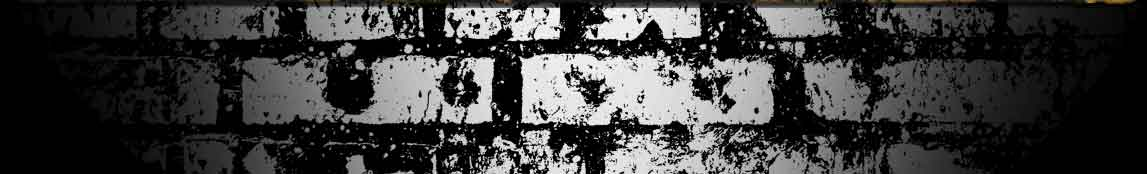
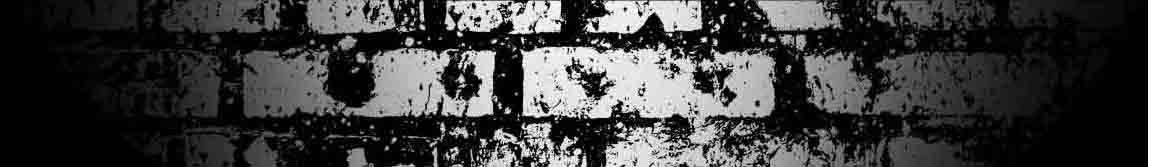
réglages css et position

Changed region(s): [[0.0915, 0.0, 0.9154, 1.0], [0.9459, 0.0, 1.0, 1.0], [0.8849, 0.2695, 0.9154, 0.2994]]

diff --git a/src/drvoy/skin/static/style.css b/src/drvoy/skin/static/style.css
@@ -34,6 +34,8 @@ margin:auto;
 
 header{
 background-image: url(images/header.jpg);
+background-repeat:no-repeat;
+background-position:7px center;
 height:185px;
 }
 
@@ -60,7 +62,7 @@ width:440px;
 background-image: url(images/menu-sup.jpg);
 background-position: 7px top;
 background-repeat: no-repeat;
-height:79px;
+height:76px;
 }
 
 /* début list-menu-sup */
@@ -134,6 +136,7 @@ background-image: url(images/colophon.jpg);
 background-repeat:no-repeat;
 height:171px;
 text-align:center;
+border-radius:18px 18px 0px 0px;
 }
 
 #colophon .logo-partenaire{
@@ -142,14 +145,13 @@ margin-top:30px;
 margin-left:170px;
 border-radius:18px;
 padding:10px;
-background: rgb(181,189,200); /* Old browsers */
-background: -moz-linear-gradient(top,  rgba(181,189,200,1) 0%, rgba(130,140,149,1) 36%, rgba(40,52,59,1) 100%); /* FF3.6+ */
-background: -webkit-gradient(linear, left top, left bottom, color-stop(0%,rgba(181,189,200,1)), color-stop(36%,rgba(130,140,149,1)), color-stop(100%,rgba(40,52,59,1))); /* Chrome,Safari4+ */
-background: -webkit-linear-gradient(top,  rgba(181,189,200,1) 0%,rgba(130,140,149,1) 36%,rgba(40,52,59,1) 100%); /* Chrome10+,Safari5.1+ */
-background: -o-linear-gradient(top,  rgba(181,189,200,1) 0%,rgba(130,140,149,1) 36%,rgba(40,52,59,1) 100%); /* Opera 11.10+ */
-background: -ms-linear-gradient(top,  rgba(181,189,200,1) 0%,rgba(130,140,149,1) 36%,rgba(40,52,59,1) 100%); /* IE10+ */
-background: linear-gradient(to bottom,  rgba(181,189,200,1) 0%,rgba(130,140,149,1) 36%,rgba(40,52,59,1) 100%); /* W3C */
-filter: progid:DXImageTransform.Microsoft.gradient( startColorstr='#b5bdc8', endColorstr='#28343b',GradientType=0 ); /* IE6-9 */
+background: -moz-linear-gradient(top,  rgba(181,189,200,0.8) 0%, rgba(130,140,149,0.8) 36%, rgba(40,52,59,0.8) 100%); /* FF3.6+ */
+background: -webkit-gradient(linear, left top, left bottom, color-stop(0%,rgba(181,189,200,0.8)), color-stop(36%,rgba(130,140,149,0.8)), color-stop(100%,rgba(40,52,59,0.8))); /* Chrome,Safari4+ */
+background: -webkit-linear-gradient(top,  rgba(181,189,200,0.8) 0%,rgba(130,140,149,0.8) 36%,rgba(40,52,59,0.8) 100%); /* Chrome10+,Safari5.1+ */
+background: -o-linear-gradient(top,  rgba(181,189,200,0.8) 0%,rgba(130,140,149,0.8) 36%,rgba(40,52,59,0.8) 100%); /* Opera 11.10+ */
+background: -ms-linear-gradient(top,  rgba(181,189,200,0.8) 0%,rgba(130,140,149,0.8) 36%,rgba(40,52,59,0.8) 100%); /* IE10+ */
+background: linear-gradient(to bottom,  rgba(181,189,200,0.8) 0%,rgba(130,140,149,0.8) 36%,rgba(40,52,59,0.8) 100%); /* W3C */
+filter: progid:DXImageTransform.Microsoft.gradient( startColorstr='#ccb5bdc8', endColorstr='#cc28343b',GradientType=0 ); /* IE6-9 */
 }
 
 
@@ -164,6 +166,10 @@ background-color:rgba(10,10, 10, 0.8);
 
 #copyright p{
 margin:10px 0px;
+}
+
+#copyright a:hover{
+color:#ffe653;
 }
 
 

diff --git a/src/drvoy/skin/static/index.html b/src/drvoy/skin/static/index.html
@@ -57,7 +57,8 @@
 			<div id="copyright">
 			    <p>Copyrihght 2009 - 2014 by Dr Voy.</p>
 			    <p>
-			        Powered by <a href="http://www.plone.org" target="_blanck">Plone</a> - 
+			        Powered by <a href="http://www.plone.org" target="_blanck">Plone</a> 
+			        &nbsp;&nbsp;&nbsp;-&nbsp;&nbsp;&nbsp; 
 			        Developped by <a href="http://www.affinitic.org" target="_blanck">Affinitic</a>
 			    </p>
 			</div>
